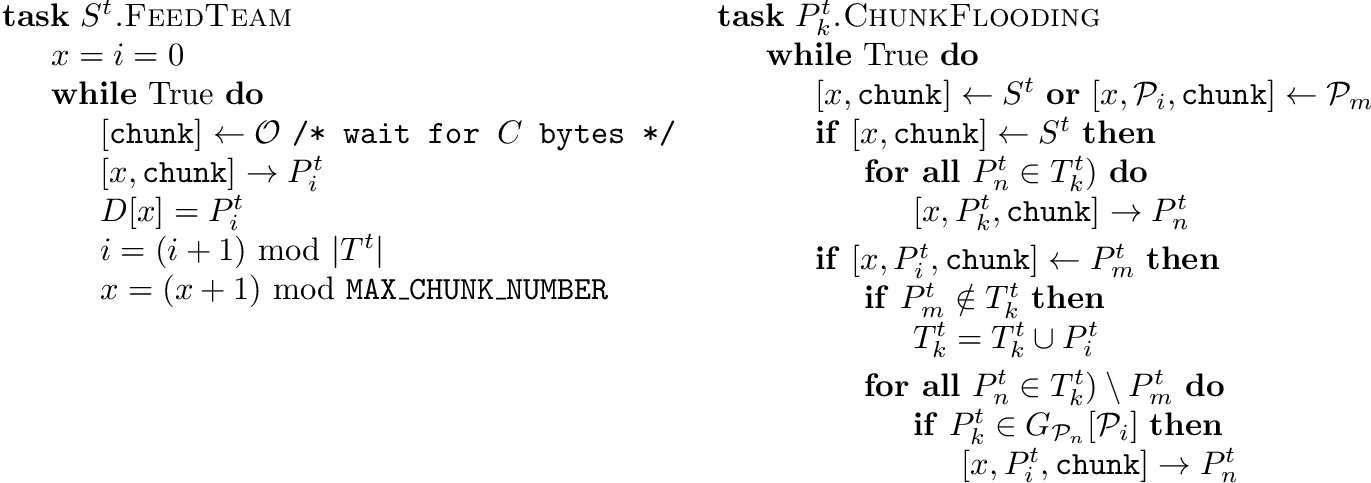
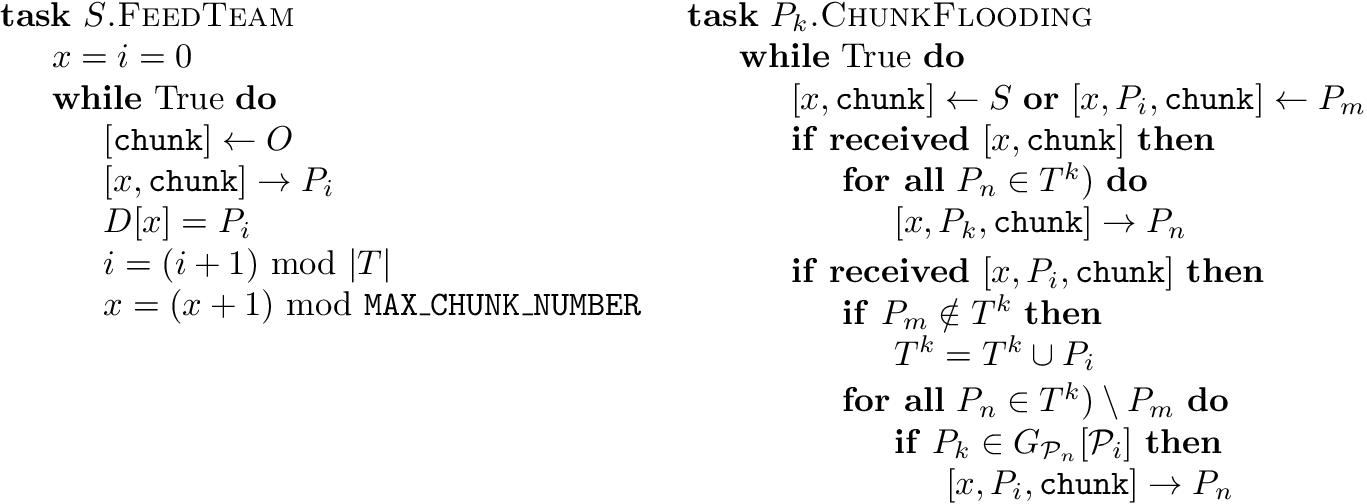
.

diff --git a/index.html b/index.html
@@ -912,34 +912,24 @@ class="MathClass-bin">∖</mo> <msub><mrow
 class="content">Chunk         generation         at         the         splitter
 <!--l. 6--><math 
  xmlns="http://www.w3.org/1998/Math/MathML"  
-display="inline" ><msup><mrow 
-><mi 
->S</mi></mrow><mrow 
-><mi 
->t</mi></mrow></msup 
-></math>,
-and chunk ﬂooding at peers <!--l. 6--><math 
+display="inline" ><mi 
+>S</mi></math>.
+Cchunk ﬂooding at peers <!--l. 6--><math 
  xmlns="http://www.w3.org/1998/Math/MathML"  
-display="inline" ><msubsup><mrow 
+display="inline" ><msub><mrow 
 ><mi 
 >P</mi></mrow><mrow 
 ><mi 
->k</mi></mrow><mrow 
-><mi 
->t</mi></mrow></msubsup 
+>k</mi></mrow></msub 
 ></math>.</span></div><!--tex4ht:label?: x1-50013 -->
                                                                   
 
                                                                   
    </div><hr class="endfloat" />
-<!--l. 8--><p class="noindent" >Each <!--l. 8--><math 
+<!--l. 8--><p class="noindent" >Splitter <!--l. 8--><math 
  xmlns="http://www.w3.org/1998/Math/MathML"  
-display="inline" ><msup><mrow 
-><mi 
->S</mi></mrow><mrow 
-><mi 
->t</mi></mrow></msup 
-></math>
+display="inline" ><mi 
+>S</mi></math>
 (see Fig. <a 
 href="#x1-50013">3<!--tex4ht:ref: fig:chunk_generation_and_flooding --></a>) divides the stream into chunks of data
 (<!--l. 9--><math 
@@ -953,14 +943,14 @@ and sends exclusively each chunk to a diﬀerent <span
 class="ecti-1000">origin peer</span>
 <!--l. 11--><math 
  xmlns="http://www.w3.org/1998/Math/MathML"  
-display="inline" ><msubsup><mrow 
+display="inline" ><msub><mrow 
 ><mi 
 >P</mi></mrow><mrow 
 ><mi 
->i</mi></mrow><mrow 
-><mi 
->t</mi></mrow></msubsup 
-></math>,
+>i</mi></mrow></msub 
+> <mo 
+class="MathClass-rel">∈</mo> <mi 
+>T</mi></math>,
 using a round-robin schema. Each chunk is enumerated with an index
 <!--l. 12--><math 
  xmlns="http://www.w3.org/1998/Math/MathML"  
@@ -987,12 +977,8 @@ display="inline" ><mi
 >x</mi> <mo 
 class="MathClass-rel">=</mo> <mi 
 >i</mi><mspace width="1em" class="nbsp" /><mi mathvariant="normal">mod</mi><mspace width="1em" class="nbsp" /><mo 
-class="MathClass-rel">|</mo><msup><mrow 
-><mi 
->T</mi></mrow><mrow 
-><mi 
->t</mi></mrow></msup 
-><mo 
+class="MathClass-rel">|</mo><mi 
+>T</mi><mo 
 class="MathClass-rel">|</mo></math>.
 </p><!--l. 15--><p class="indent" >   We deﬁne a <span 
 class="ecti-1000">round </span>(in a team) as the time necessary to send two
@@ -1001,12 +987,8 @@ peer, using the round-robing. This time is variable and depends on
 <!--l. 17--><math 
  xmlns="http://www.w3.org/1998/Math/MathML"  
 display="inline" ><mo 
-class="MathClass-rel">|</mo><msup><mrow 
-><mi 
->T</mi></mrow><mrow 
-><mi 
->t</mi></mrow></msup 
-><mo 
+class="MathClass-rel">|</mo><mi 
+>T</mi><mo 
 class="MathClass-rel">|</mo></math>,
 <!--l. 18--><math 
  xmlns="http://www.w3.org/1998/Math/MathML"  

diff --git a/DBS/chunk_flooding.tex b/DBS/chunk_flooding.tex
@@ -1,27 +1,30 @@
 \label{sec:chunk_flooding}
-When a peer $P^t_k$ receives a chunk from $P^t_i$, $P^t_k$ floods the
-chunk to $T^t_k \setminus P^t_i$, using a prioritized round-robin
-schema (see Fig.~\ref{fig:chunk_generation_and_flooding}). Besides, if
-it is a duplicate chunk, $P^t_k$ sends to $P^t_i$ a
-$[\mathtt{NRFCF}~P^t_l]$ ($\mathtt{N}$ot $\mathtt{R}$elay
+\begin{figure*}
+  %\includegraphics[width=0.75\textwidth]{chunk_generation_and_flooding} \fig{100}{3cm}{chunk_flooding} \caption{Chunk
+  flooding at peers.\label{fig:chunk_flooding}}
+\end{figure*}
+When a peer $P_k$ receives a chunk from $P_i$, $P_k$ floods the
+chunk to $T^k \setminus P_i$, using a prioritized round-robin
+schema (see Fig.~\ref{fig:chunk_flooding}). Besides, if
+it is a duplicate chunk, $P_k$ sends to $P_i$ a
+$[\mathtt{NRFCF}~P_l]$ ($\mathtt{N}$ot $\mathtt{R}$elay
 $\mathtt{F}$uture $\mathtt{C}$hunks $\mathtt{F}$rom) message, where
-$P^t_l$ is the origin peer of the duplicate chunk. Thus, only
-the first neighbor ${\cal P}^j_i$ to send to ${\cal P}^j_k$ a chunk
-``originated'' at ${\cal P}^j_l$ will do that in the future, at least
-that ${\cal P}_k$ revokes this routing information by sending
-$[\mathtt{RFCF}~{\cal P}^j_l]$ ($\mathtt{R}$elay $\mathtt{F}$uture
+$P_l$ is the origin peer of the duplicate chunk. Thus, only
+the first neighbor $P_i$ to send to $P_k$ a chunk
+``originated'' at $P_l$ will do that in the future, at least
+that $P_k$ revokes this routing information by sending a
+$[\mathtt{RFCF}~P_l]$ ($\mathtt{R}$elay $\mathtt{F}$uture
 $\mathtt{C}$hunks $\mathtt{F}$rom) to one or more (possibly the rest
-of) peers of ${\cal T}^j_k$.
+of) peers of $T^k$.
 
-As said, peers prioritize the flooding of the chunks they relay by
-sending first the chunks to those neighbors that are more
-supportive. To achieve that, every time ${\cal P}^j_k$ sends a chunk
-to ${\cal P}^j_l$, ${\cal P}^j_k$ runs $\mathtt{debt}[{\cal P}^j_l]
-= \mathtt{debt}[{\cal P}^j_l]+1$, and ${\cal P}^j_l$ runs
-$\mathtt{debt}[{\cal P}^j_k] =
-\mathtt{debt}[{\cal P}^j_k]-1$ (see Fig.\ref{fig:}). Basically, these
-tables maintain a ``debt'' of chunks between evey pair of neighbor
-peers. In ideal circunstances, debs should be $0$. Debs are clipped to
+As it has been said before, peers prioritize the flooding of the
+chunks they relay by sending first the chunks to those neighbors that
+are more supportive. To achieve that, every time $Pj_k$ sends a chunk
+to $P_l$, $P_k$ runs $\mathtt{debt}[P_l] = \mathtt{debt}[P_l]+1$, and
+$P_l$ runs $\mathtt{debt}[P_k] = \mathtt{debt}[P_k]-1$ (see
+Fig.\ref{fig:}). Basically, these tables maintain a ``debt'' of chunks
+between evey pair of neighbor peers. In ideal circunstances, debs
+should be $0$. Debs are clipped to
 $\pm\mathtt{debt}_{\text{max}}$. Obviously, a high supportivity means
 a low debt, and viceversa.
 

diff --git a/DBS/chunk_generation.tex b/DBS/chunk_generation.tex
@@ -1,20 +1,19 @@
 \label{sec:chunk_generation}
 \begin{figure*}
   %\includegraphics[width=0.75\textwidth]{chunk_generation_and_flooding}
-  \fig{300}{3cm}{chunk_generation_and_flooding}
-  \caption{Chunk generation at the splitter $S^t$, and chunk flooding
-    at peers $P^t_k$.\label{fig:chunk_generation_and_flooding}}
+  \fig{120}{3cm}{chunk_generation}
+  \caption{Chunk generation at the splitter.\label{fig:chunk_generation}}
 \end{figure*}
-Each $S^t$ (see Fig.~\ref{fig:chunk_generation_and_flooding})
-divides the stream into chunks of data ($\mathtt{chunk}$) of constant
-length $C$, and sends exclusively each chunk to a different
-\emph{origin peer} $P^t_i$, using a round-robin schema. Each
-chunk is enumerated with an index $x$, conforming a message
-$[c_x]=[x,\mathtt{chunk}]$, where $x=i~\mathrm{mod}~|T^t|$.
+Splitter $S$ divides the stream into chunks of data ($\mathtt{chunk}$)
+of constant length $C$, and sends exclusively each chunk to a
+different \emph{origin peer} $P_i\in T$, using a round-robin schema
+(see Fig.~\ref{fig:chunk_generation}). Each chunk is enumerated with
+an index $x$, conforming a message $[c_x]=[x,\mathtt{chunk}]$, where
+$x=i~\mathrm{mod}~|T|$.
 
 We define a \emph{round} (in a team) as the time necessary to send two
 consecutive chunks from the splitter (of such team) to the same peer,
-using the round-robing. This time is variable and depends on $|T^t|$,
+using the round-robing. This time is variable and depends on $|T|$,
 $C$, and the average bit-rate of the media, $A$.
 
 \begin{comment}

diff --git a/graphics/peer_chunk_flooding.tex b/graphics/peer_chunk_flooding.tex
@@ -13,21 +13,21 @@
 
 \begin{algorithmic}
 
-  \Procedure{$P^t_k$.ChunkFlooding}{}
+  \Procedure{$P_k$.ChunkFlooding}{}
   \While{True}
-  \State $[x,\mathtt{chunk}] \gets S^t$ \textbf{or} $[x,{\cal P}_i,\mathtt{chunk}] \gets {\cal P}_m$
-  \If{$[x,\mathtt{chunk}] \gets S^t$}
-  \ForAll {$P^t_n \in T^t_k)$}
-  \State $[x,P^t_k,\mathtt{chunk}] \sendto P^t_n$
+  \State $[x,\mathtt{chunk}] \gets S$ \textbf{or} $[x,P_i,\mathtt{chunk}] \gets P_m$
+  \If{\textbf{received}~$[x,\mathtt{chunk}]$}
+  \ForAll {$P_n \in T^k)$}
+  \State $[x,P_k,\mathtt{chunk}] \sendto P_n$
   \EndFor
   \EndIf
-  \If{$[x,P^t_i,\mathtt{chunk}] \gets P^t_m$}
-  \If{$P^t_m \notin T^t_k$}
-  \State $T^t_k = T^t_k \cup P^t_i$
+  \If{\textbf{received}~$[x,P_i,\mathtt{chunk}]$}
+  \If{$P_m \notin T^k$}
+  \State $T^k = T^k \cup P_i$
   \EndIf
-  \ForAll{$P^t_n \in T^t_k) \setminus P^t_m$}
-  \If{$P^t_k \in G_{{\cal P}_n}[{\cal P}_i]$}
-  \State $[x,P^t_i,\mathtt{chunk}] \sendto P^t_n$
+  \ForAll{$P_n \in T^k) \setminus P_m$}
+  \If{$P_k \in G_{{\cal P}_n}[{\cal P}_i]$}
+  \State $[x,P_i,\mathtt{chunk}] \sendto P_n$
   \EndIf
   \EndFor
   \EndIf

diff --git a/graphics/splitter_chunk_generation.tex b/graphics/splitter_chunk_generation.tex
@@ -14,13 +14,13 @@
 
 \begin{algorithmic}
 
-  \Procedure{$S^t$.FeedTeam}{}
+  \Procedure{$S$.FeedTeam}{}
   \State $x=i=0$
   \While{True}
-  \State $[\mathtt{chunk}] \gets {\cal O}$~\texttt{/* wait for $C$ bytes */}
-  \State $[x,\mathtt{chunk}] \sendto P^t_i$
-  \State $D[x]=P^t_i$
-  \State $i=(i+1)~\text{mod}~|T^t|$
+  \State $[\mathtt{chunk}] \gets O$
+  \State $[x,\mathtt{chunk}] \sendto P_i$
+  \State $D[x]=P_i$
+  \State $i=(i+1)~\text{mod}~|T|$
   \State $x=(x+1)~\text{mod}~\mathtt{MAX\_CHUNK\_NUMBER}$
   %\If{$x=0$}
   %$r=(r+1)~\text{mod}~\mathtt{MAX\_ROUND\_NUMBER}$
